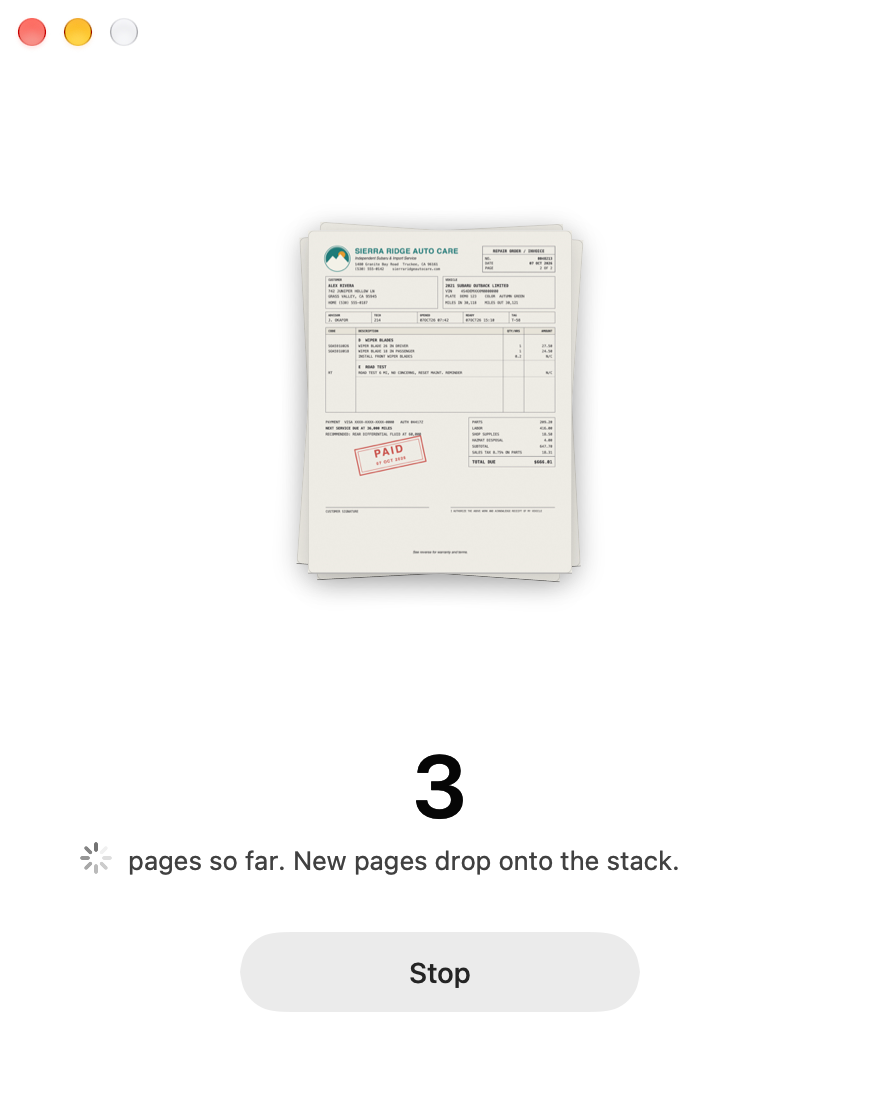
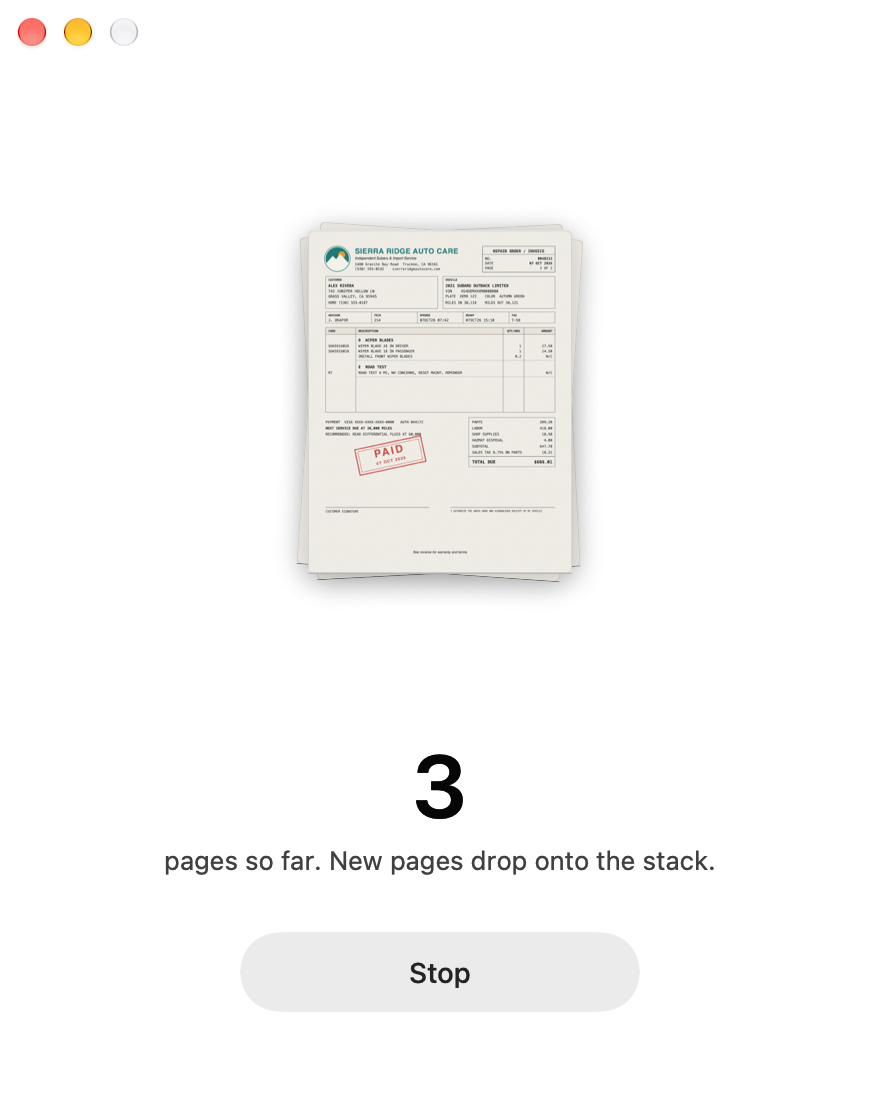
Show only the page count once pages arrive
Claude-Session: https://claude.ai/code/session_01GVznav8ufQvJr6YecHSbjP

Changed region(s): [[0.1534, 0.75, 0.7977, 0.7812], [0.092, 0.75, 0.1227, 0.7812]]

diff --git a/App/FastScan/Screens.swift b/App/FastScan/Screens.swift
@@ -194,13 +194,11 @@ final class FailedScreen: HeroScreen {
 }
 
 /// Starting the scanner and feeding the first page take seconds with nothing to count, so a
-/// spinner holds the stack's place until the first page lands; after that a small one beside
-/// the status shows the feeder is still going.
+/// spinner holds the stack's place until the first page lands.
 final class ScanningScreen: HeroScreen {
     private let stack = PageStackView()
     private let counter = Typeface.label("0", font: .monospacedDigitSystemFont(ofSize: 44, weight: .semibold), color: .labelColor, tracking: -0.5)
     private let startSpinner = Spinner(size: .regular)
-    private let feedSpinner = Spinner(size: .small)
     private let status = Typeface.body("")
     private var shown = 0
 
@@ -213,12 +211,11 @@ final class ScanningScreen: HeroScreen {
             startSpinner.centerYAnchor.constraint(equalTo: hero.centerYAnchor),
         ])
         (status as? StyledLabel)?.singleLine(.byTruncatingTail)
-        let statusLine = hstack([feedSpinner, status], spacing: 6)
-        textStack.setViews([counter, statusLine], in: .top)
+        textStack.setViews([counter, status], in: .top)
         textStack.spacing = 2
         textStack.alignment = .centerX
         counter.widthAnchor.constraint(equalTo: textStack.widthAnchor).isActive = true
-        statusLine.widthAnchor.constraint(lessThanOrEqualTo: textStack.widthAnchor).isActive = true
+        status.widthAnchor.constraint(lessThanOrEqualTo: textStack.widthAnchor).isActive = true
         setSingleAction(PillButton("Stop", role: .secondary, target: target, action: #selector(ScanWindowController.stop)))
         stack.setPages(context.thumbnails)
         shown = context.thumbnails.count
@@ -234,8 +231,6 @@ final class ScanningScreen: HeroScreen {
         }
         counter.isHidden = pages == 0
         startSpinner.isSpinning = pages == 0
-        feedSpinner.isSpinning = pages > 0
-        feedSpinner.isHidden = pages == 0
         for image in context.thumbnails.dropFirst(shown) { stack.drop(image) }
         shown = context.thumbnails.count
         if counter.stringValue != "\(pages)" {
